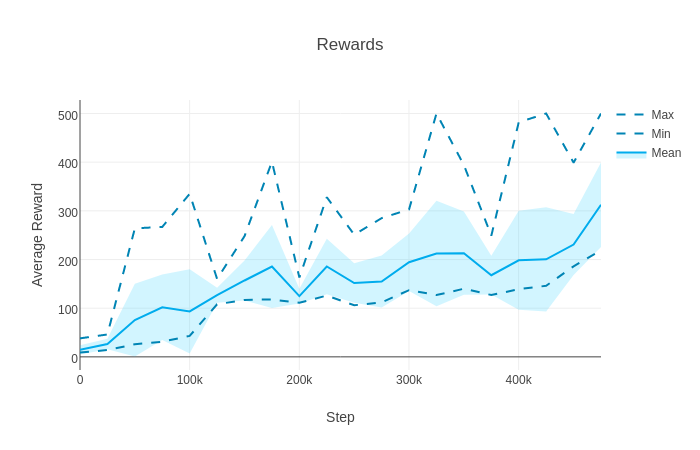
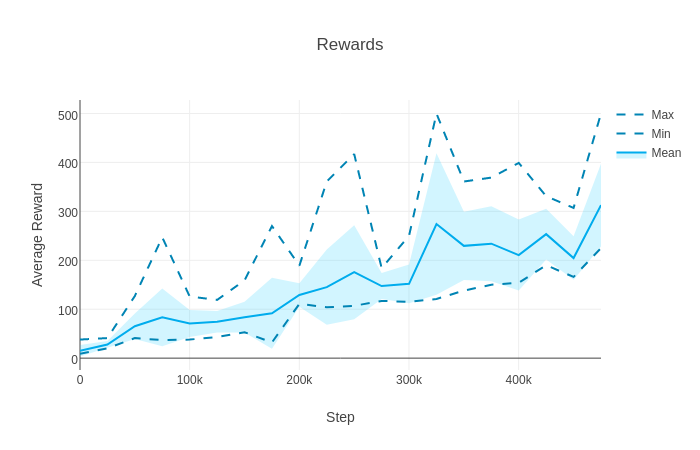
Remove GAE

diff --git a/train.py b/train.py
@@ -90,7 +90,6 @@ def train(rank, args, T, shared_model, optimiser):
     # Train the network
     policy_loss = 0
     value_loss = 0
-    A_GAE = torch.zeros(1, 1)  # Generalised advantage estimator Ψ
     # Calculate n-step returns in forward view, stepping backwards from the last state
     trajectory_length = len(rewards)
     for i in reversed(range(trajectory_length)):
@@ -101,12 +100,8 @@ def train(rank, args, T, shared_model, optimiser):
       # dθ ← dθ - ∂A^2/∂θ
       value_loss += 0.5 * A ** 2  # Least squares error
 
-      # TD residual δ = r + γV(s_i+1; θ) - V(s_i; θ)
-      td_error = rewards[i] + args.discount * values[i + 1].data - values[i].data
-      # Generalised advantage estimator Ψ (roughly of form ∑(γλ)^t∙δ)
-      A_GAE = A_GAE * args.discount * args.trace_decay + td_error
-      # dθ ← dθ + ∇θ∙log(π(a_i|s_i; θ))∙Ψ
-      policy_loss -= log_probs[i] * Variable(A_GAE)  # Policy gradient loss
+      # dθ ← dθ + ∇θ∙log(π(a_i|s_i; θ))∙A
+      policy_loss -= log_probs[i] * A  # Policy gradient loss
       # dθ ← dθ + β∙∇θH(π(s_i; θ))
       policy_loss -= args.entropy_weight * entropies[i]  # Entropy maximisation loss
 

diff --git a/main.py b/main.py
@@ -21,7 +21,6 @@ parser.add_argument('--max-episode-length', type=int, default=500, metavar='LENG
 parser.add_argument('--hidden-size', type=int, default=32, metavar='SIZE', help='Hidden size of LSTM cell')
 parser.add_argument('--model', type=str, metavar='PARAMS', help='Pretrained model (state dict)')
 parser.add_argument('--discount', type=float, default=0.99, metavar='γ', help='Discount factor')
-parser.add_argument('--trace-decay', type=float, default=1, metavar='λ', help='Eligibility trace decay factor')
 parser.add_argument('--reward-clip', action='store_true', help='Clip rewards to [-1, 1]')
 parser.add_argument('--lr', type=float, default=0.001, metavar='η', help='Learning rate')
 parser.add_argument('--no-lr-decay', action='store_true', help='Disable linearly decaying learning rate to 0')

diff --git a/test.py b/test.py
@@ -66,6 +66,9 @@ def test(rank, args, T, shared_model):
             avg_episode_lengths.append(episode_length)
             break
 
+      if args.evaluate:
+        return
+
       print(('[{}] Step: {:<' + l + '} Avg. Reward: {:<8} Avg. Episode Length: {:<8}').format(
             datetime.utcnow().strftime('%Y-%m-%d %H:%M:%S,%f')[:-3],
             t_start,
@@ -76,8 +79,6 @@ def test(rank, args, T, shared_model):
       plot_line(steps, rewards)  # Plot rewards
       torch.save(model.state_dict(), 'model.pth')  # Save model params
       can_test = False  # Finish testing
-      if args.evaluate:
-        return
     else:
       if T.value() - t_start >= args.evaluation_interval:
         can_test = True

diff --git a/README.md b/README.md
@@ -2,7 +2,7 @@ NoisyNet-A3C
 ============
 [![MIT License](https://img.shields.io/badge/license-MIT-blue.svg)](LICENSE.md)
 
-NoisyNet [[1]](#references) (LSTM) asynchronous advantage actor-critic (A3C) [[2]](#references) with generalised advantage estimation (GAE) [[3]](#references). Run with `python main.py <options>`. Entropy regularisation can still be added by setting `--entropy-weight <value>`, but it is 0 by default. Run with `--no-noise` to run normal A3C (without noisy linear layers).
+NoisyNet [[1]](#references) (LSTM) asynchronous advantage actor-critic (A3C) [[2]](#references). Run with `python main.py <options>`. Entropy regularisation can still be added by setting `--entropy-weight <value>`, but it is 0 by default. Run with `--no-noise` to run normal A3C (without noisy linear layers).
 
 Requirements
 ------------
@@ -17,11 +17,15 @@ Results
 
 ### NoisyNet-A3C
 
-On the whole, NoisyNet-A3C tends to be better than A3C (with or without entropy regularisation). There seems to be more variance, with both good and poor runs (two examples below), probably due to "deep" exploration.
+On the whole, NoisyNet-A3C tends to be better than A3C (with or without entropy regularisation). There seems to be more variance, with both good and poor runs, probably due to "deep" exploration.
 
 ![Good-NoisyNet-A3C](figures/good-noisynet-a3c.png)
 
 ![Bad-NoisyNet-A3C](figures/bad-noisynet-a3c.png)
+
+NoisyNet-A3C is perhaps even more prone to performance collapses than normal A3C. Many deep reinforcement learning algorithms are still prone to this.
+
+![Collapse-NoisyNet-A3C](figures/collapse-noisynet-a3c.png)
 
 ### A3C (no entropy regularisation)
 
@@ -47,4 +51,3 @@ References
 
 [1] [Noisy Networks for Exploration](https://arxiv.org/abs/1706.10295)  
 [2] [Asynchronous Methods for Deep Reinforcement Learning](http://arxiv.org/abs/1602.01783)  
-[3] [High-Dimensional Continuous Control Using Generalized Advantage Estimation](https://arxiv.org/abs/1506.02438)  
